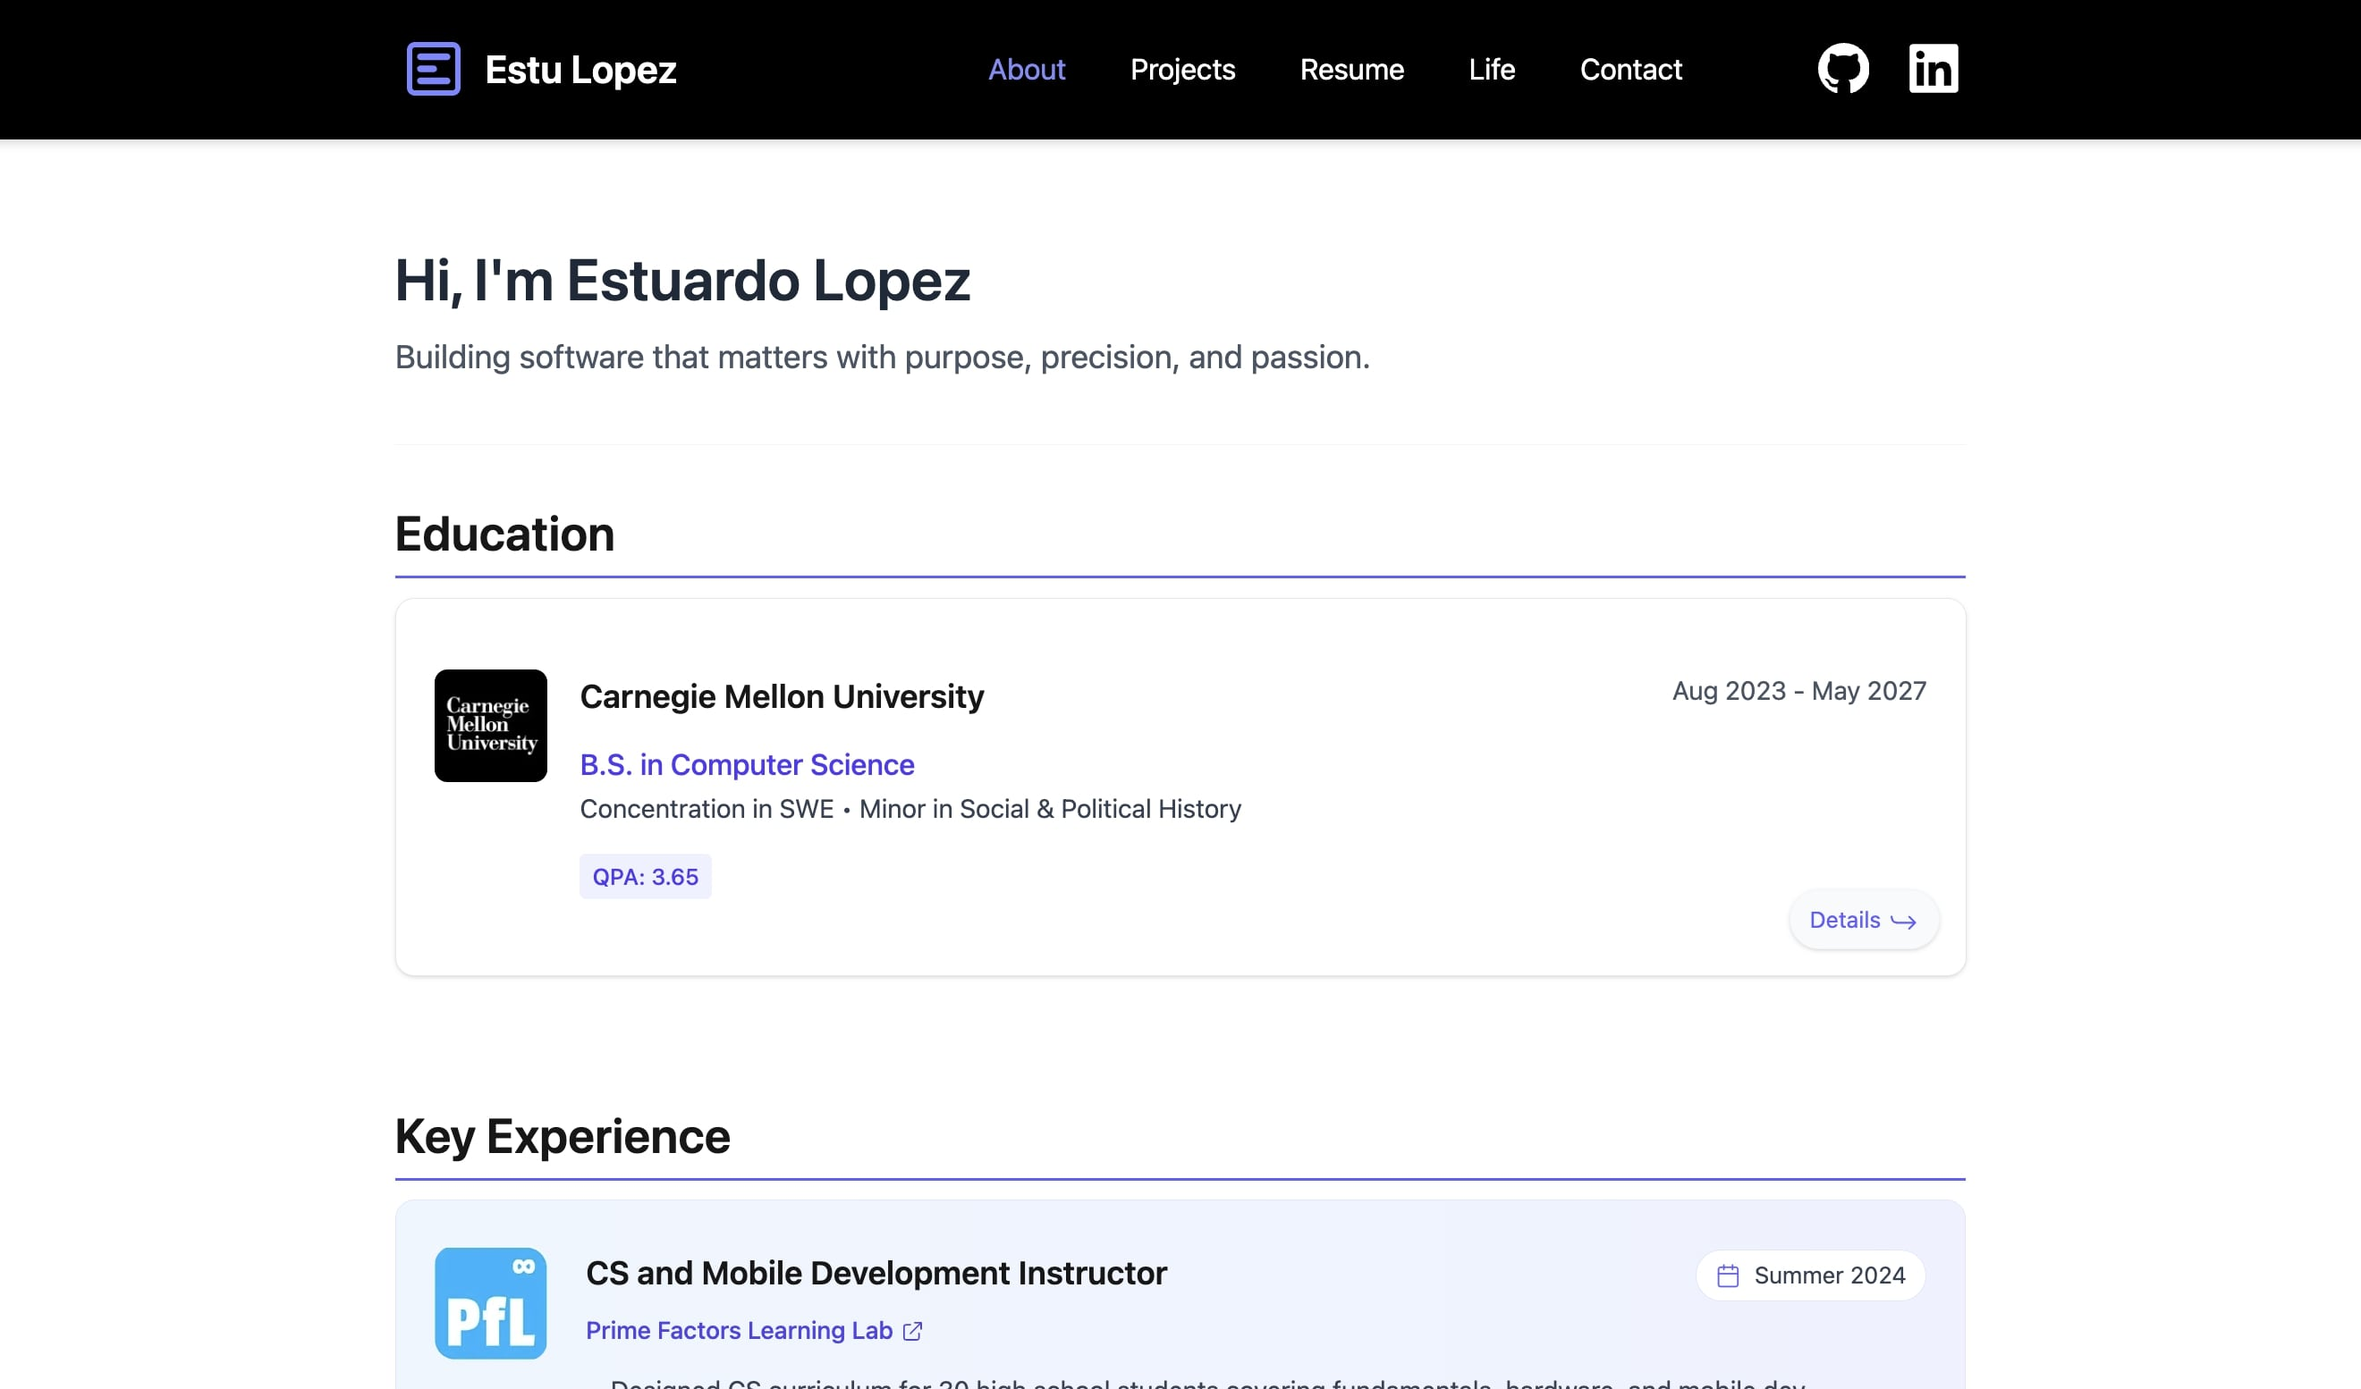
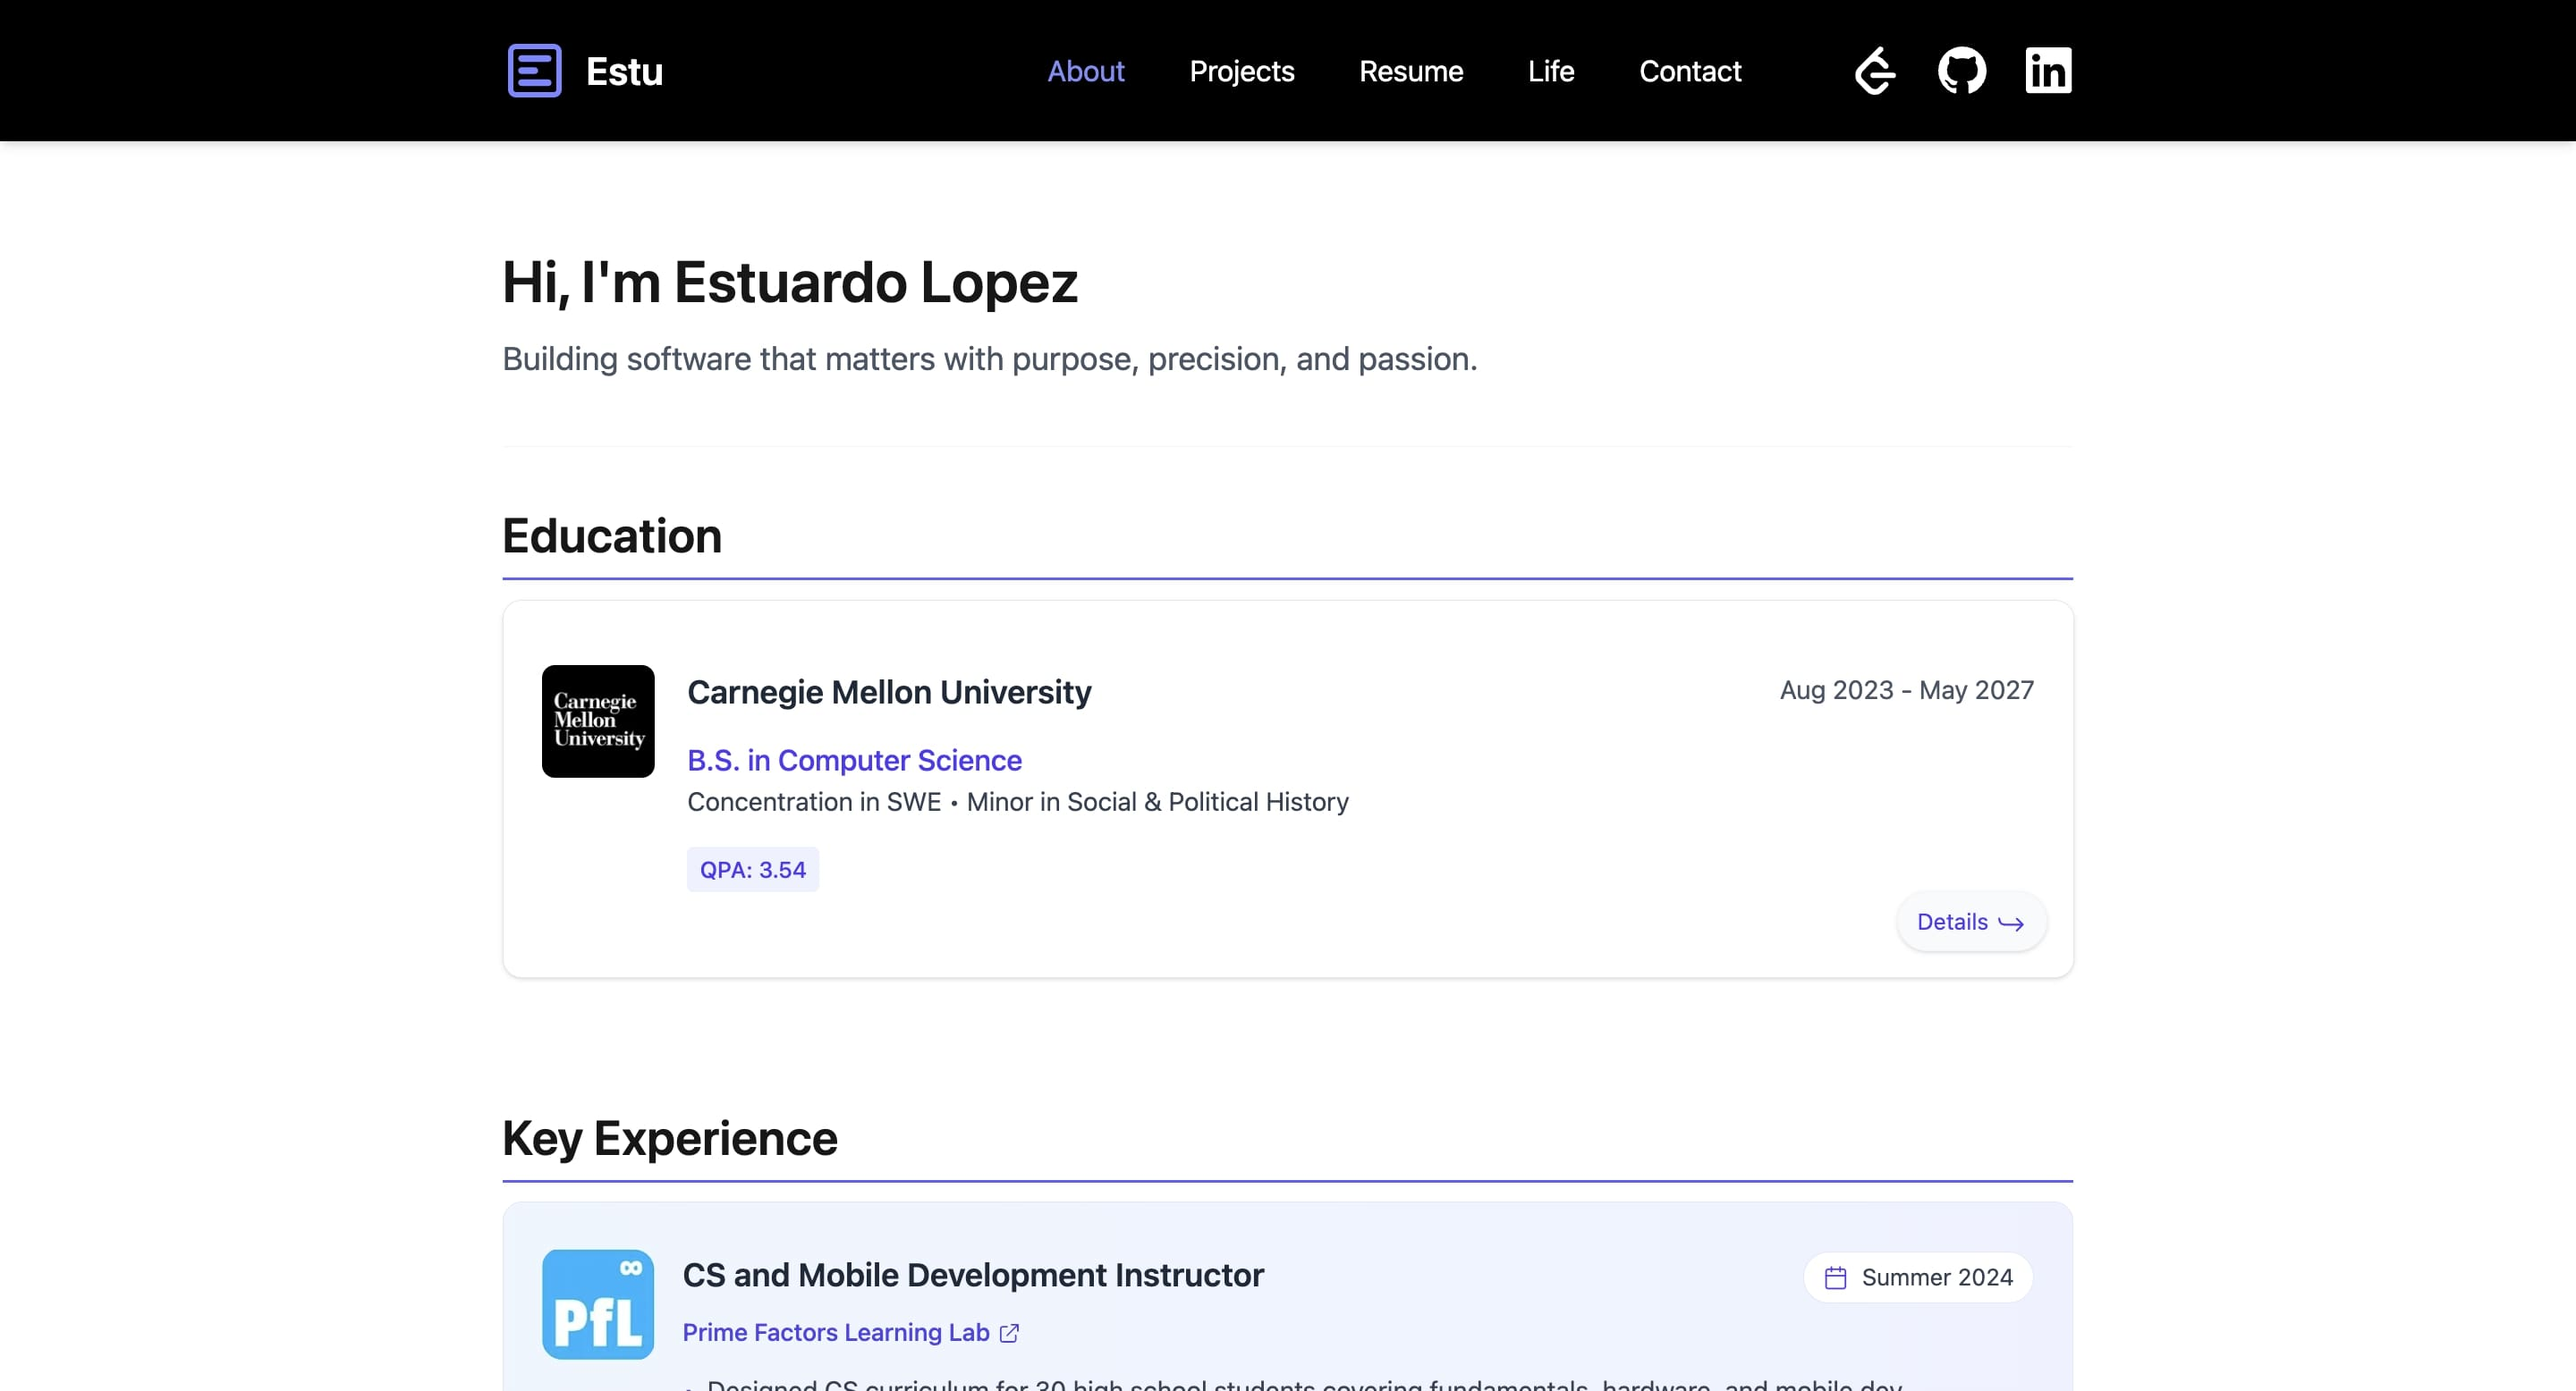
Update site metadata for SEO and social sharing. Add Open Graph metadata for enhanced link previews.

diff --git a/src/app/layout.tsx b/src/app/layout.tsx
@@ -4,7 +4,7 @@ import Header from '@/components/layout/Header';
 import Footer from '@/components/layout/Footer';
 
 /**
- * Site metadata configuration for SEO optimization
+ * Site metadata configuration for SEO optimization and social sharing
  */
 export const metadata: Metadata = {
   // Title configuration with default and template for child pages
@@ -12,9 +12,11 @@ export const metadata: Metadata = {
     default: 'Estuardo Lopez',
     template: '%s | Estuardo Lopez',
   },
+
   // Site description for search engine results
   description:
     'Estuardo Lopez is a Computer Science student at Carnegie Mellon University specializing in software engineering and full stack development.',
+
   // Keywords for improved search engine indexing
   keywords: [
     'Estuardo Lopez',
@@ -30,16 +32,19 @@ export const metadata: Metadata = {
     'Next.js',
     'Portfolio',
   ],
+
   // Author and publisher information
   creator: 'Estuardo Lopez',
   publisher: 'Estuardo Lopez',
   authors: [{ name: 'Estuardo Lopez' }],
+
   // Prevent automatic formatting of contact information
   formatDetection: {
     email: false,
     address: false,
     telephone: false,
   },
+
   // Search engine indexing configuration
   robots: {
     index: true,
@@ -51,10 +56,37 @@ export const metadata: Metadata = {
       'max-snippet': -1,
     },
   },
+
   // Additional metadata
   applicationName: 'Estuardo Lopez Portfolio',
   generator: 'Next.js',
   category: 'portfolio',
+
+  // Open Graph metadata for social link previews (LinkedIn, Discord, etc.)
+  openGraph: {
+    // Title and description shown in link previews
+    title: 'Estuardo Lopez',
+    description: 'CS @ Carnegie Mellon | Software Engineer | Personal Portfolio',
+
+    // Canonical URL of your site
+    url: 'https://www.estuardolopez.com',
+
+    // Site name shown in previews
+    siteName: 'Estuardo Lopez',
+
+    // Image displayed in link previews (must be an absolute URL)
+    images: [
+      {
+        url: 'https://www.estuardolopez.com/og-preview.png',
+        width: 1200,
+        height: 630,
+        alt: 'Estuardo Lopez Portfolio Preview',
+      },
+    ],
+
+    // Type of Open Graph object
+    type: 'website',
+  },
 };
 
 /**
